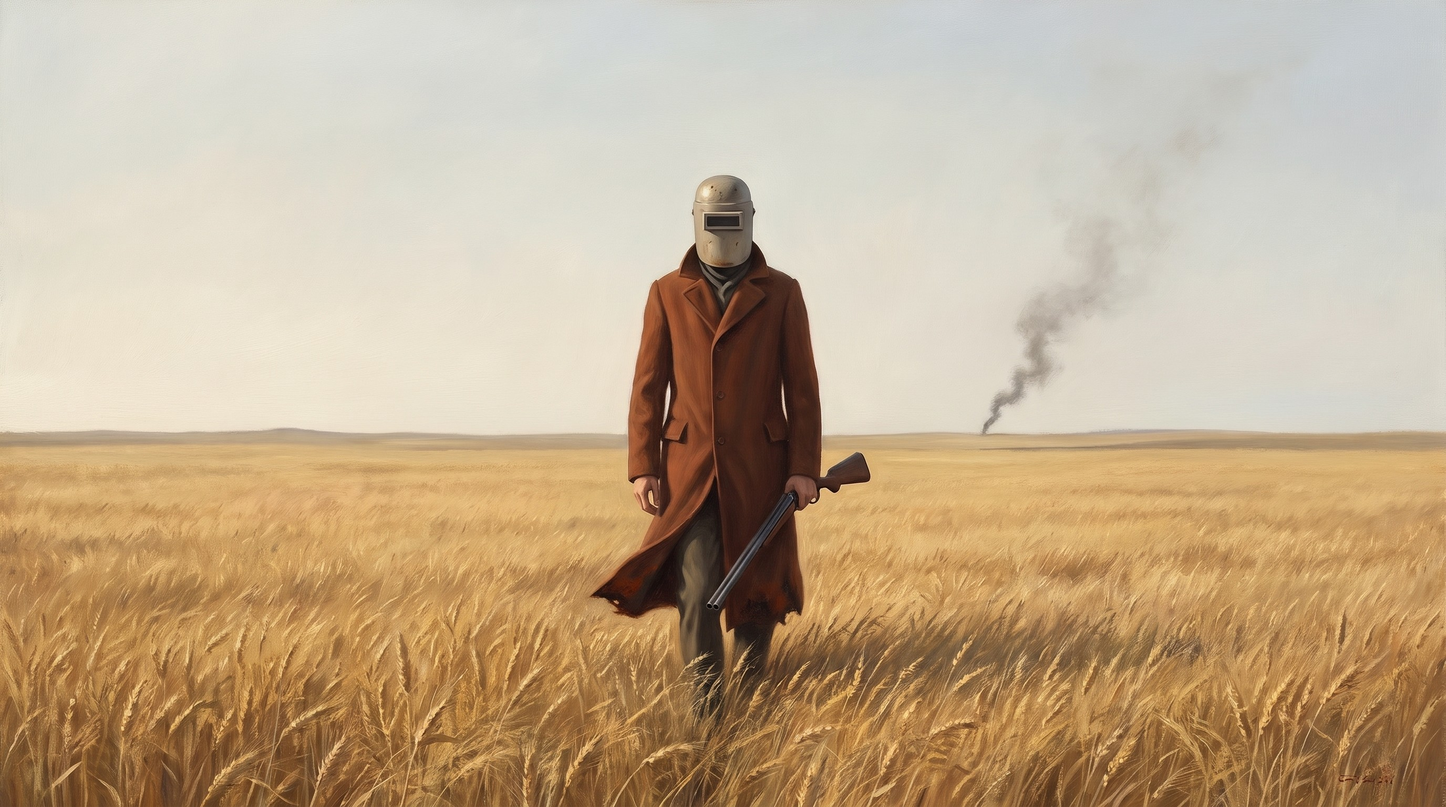
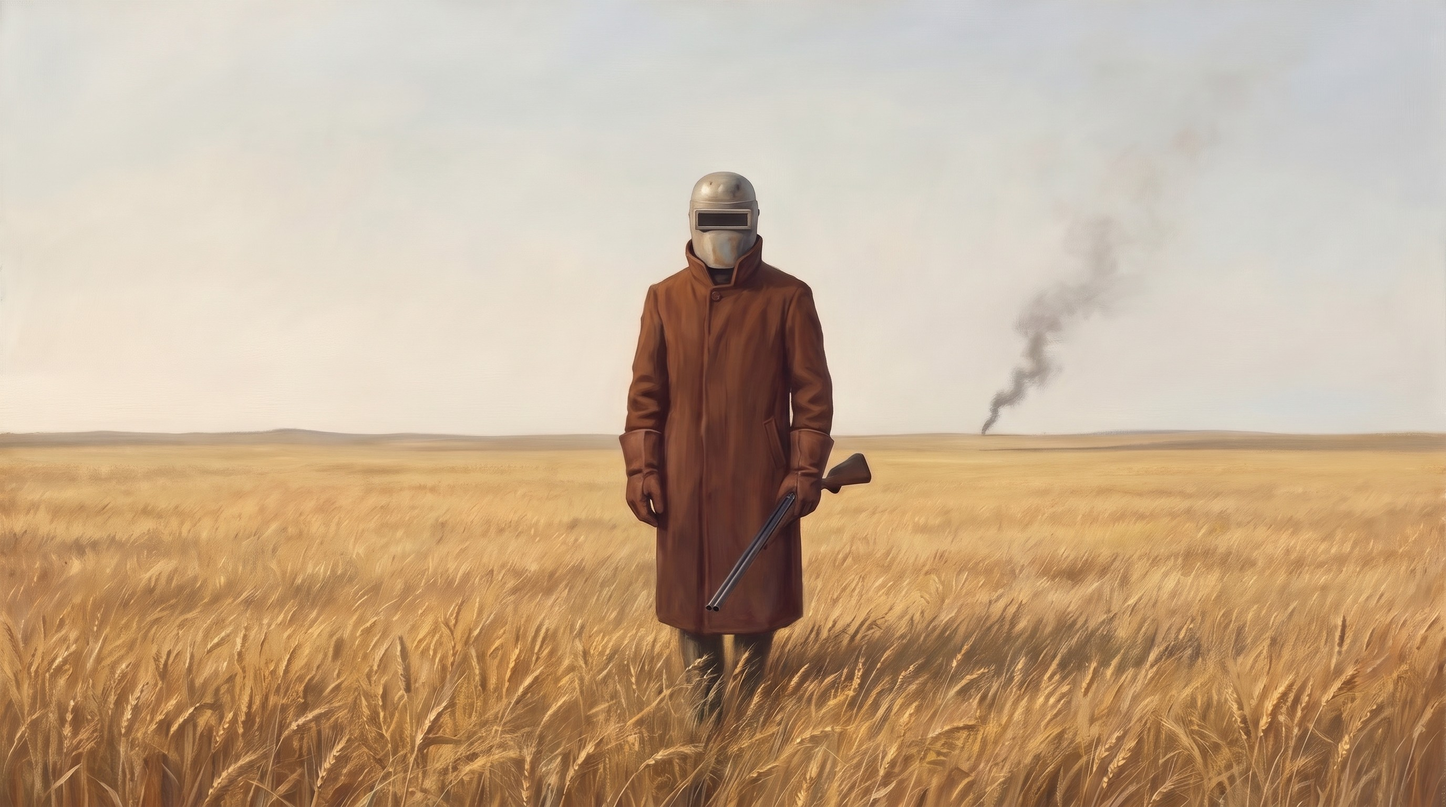
Bible: wider helmet slot, coat buttoned with collar up, welding gauntlets; sample scene redone
Claude-Session: https://claude.ai/code/session_017HrTSFRZebQC29BqzH8Nx5

Changed region(s): [[0.0, 0.2188, 1.0, 1.0], [0.0938, 0.6875, 0.125, 0.7188]]

diff --git a/bible/canon.md b/bible/canon.md
@@ -10,7 +10,8 @@
 | The boy | C: long trousers, pale shirt | 04-boy-fire-field |
 | The year | 1930s for the main story; the boy's childhood about 1910 | |
 
-| The helmet (final) | the FIRST grey helmet: pale grey-tan steel, wide letterbox slot, dark cloth hood | cards/helmet.jpg |
+| The helmet (final) | the FIRST grey helmet: pale grey-tan steel, a WIDE letterbox slot running almost the full width of the face plate, dark cloth hood | cards/helmet.jpg |
+| Gloves | thick brown leather welding gauntlets, ALWAYS worn when he is in the suit (coat and helmet) | cards/helmet.jpg |
 | The overcoat | long rust-brown wool, singed at the hem; ALWAYS buttoned up all the way with the collar turned up (owner) | cards/props.jpg |
 | The sword | the straight old sword: straight double-edged blade, plain iron cross-guard, cord grip, round pommel | cards/props.jpg |
 | The Lady's face | her ORIGINAL Midjourney face (14 above all, also 50 and 09): cards/lady-face-original.jpg; the three views painted from 14 | cards/lady-face.jpg, cards/lady-face-original.jpg |
